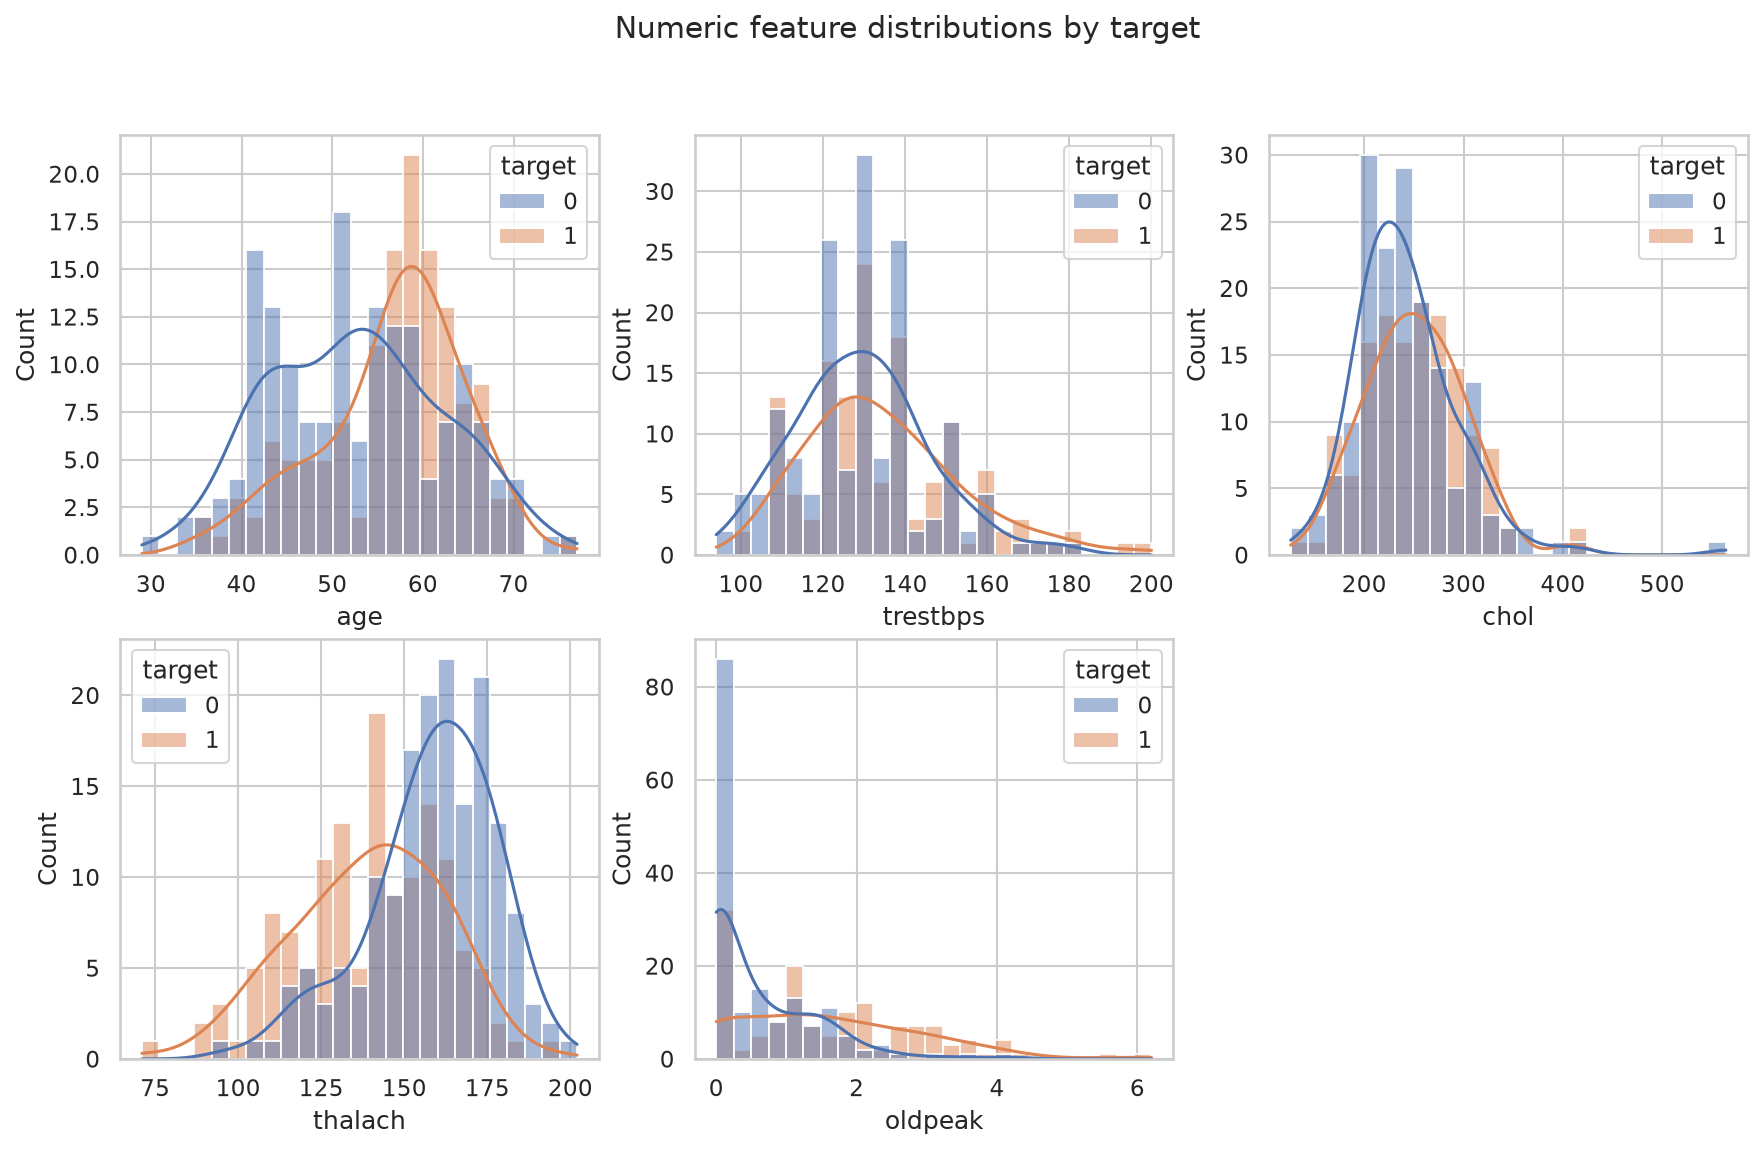
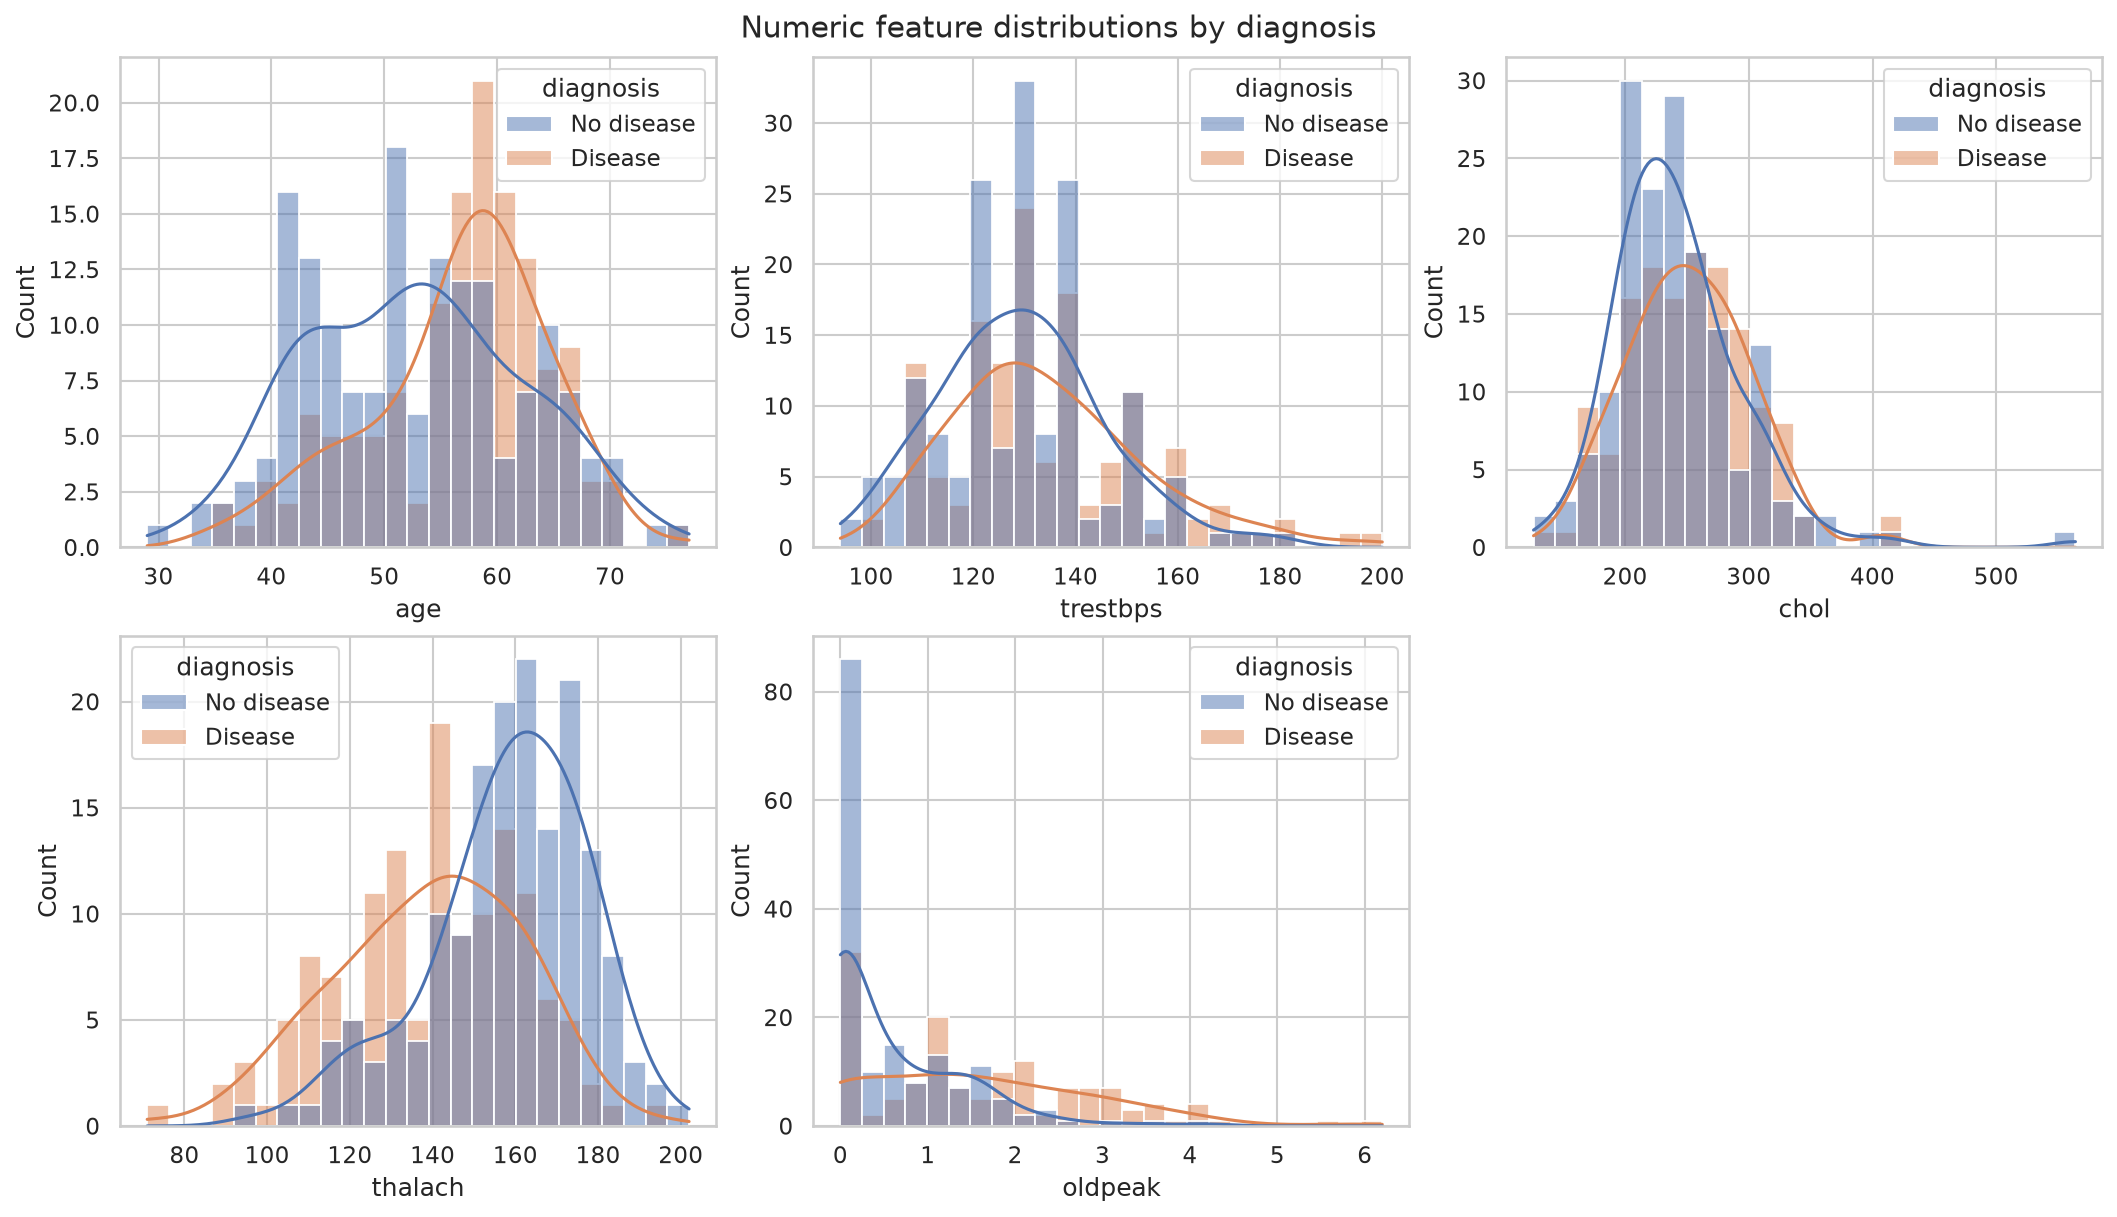
feat: improved EDA with rate plots and mutual information

diff --git a/src/eda.py b/src/eda.py
@@ -4,12 +4,16 @@ from pathlib import Path
 import matplotlib
 matplotlib.use("Agg")
 import matplotlib.pyplot as plt
+import numpy as np
 import pandas as pd
 import seaborn as sns
+from sklearn.feature_selection import mutual_info_classif
 
 from src.preprocess import CATEGORICAL, CLEAN_PATH, NUMERIC, TARGET
 
 OUT = Path("reports/eda")
+ORDER = ["No disease", "Disease"]
+PALETTE = {"No disease": "#4C72B0", "Disease": "#DD8452"}
 sns.set_theme(style="whitegrid", context="notebook")
 
 
@@ -20,51 +24,93 @@ def save(fig, name: str) -> None:
     print("saved", OUT / name)
 
 
+def cat_frame(df: pd.DataFrame, col: str) -> pd.DataFrame:
+    d = df.dropna(subset=[col]).copy()
+    d[col] = d[col].astype(int)
+    return d
+
+
 def main() -> None:
     df = pd.read_csv(CLEAN_PATH)
+    df["diagnosis"] = df[TARGET].map({0: ORDER[0], 1: ORDER[1]})
 
-    # 1. Class balance
+    # 1. Class balance with percentages
+    counts = df["diagnosis"].value_counts().reindex(ORDER)
     fig, ax = plt.subplots(figsize=(5, 4))
-    sns.countplot(data=df, x=TARGET, ax=ax, hue=TARGET, legend=False)
-    for p in ax.patches:
-        ax.annotate(int(p.get_height()), (p.get_x() + p.get_width() / 2, p.get_height()),
-                    ha="center", va="bottom")
-    ax.set_xticks([0, 1], ["No disease", "Disease"])
+    ax.bar(ORDER, counts.values, color=[PALETTE[o] for o in ORDER])
+    for i, v in enumerate(counts.values):
+        ax.text(i, v + 2, f"{v} ({v / len(df):.1%})", ha="center")
+    ax.set_ylabel("Patients")
     ax.set_title("Class balance")
     save(fig, "01_class_balance.png")
 
-    # 2. Numeric histograms (split by target)
-    fig, axes = plt.subplots(2, 3, figsize=(14, 8))
+    # 2. Numeric histograms by diagnosis
+    fig, axes = plt.subplots(2, 3, figsize=(14, 8), constrained_layout=True)
     for ax, col in zip(axes.ravel(), NUMERIC):
-        sns.histplot(data=df, x=col, hue=TARGET, kde=True, bins=25, ax=ax)
+        sns.histplot(data=df, x=col, hue="diagnosis", hue_order=ORDER,
+                     palette=PALETTE, kde=True, bins=25, ax=ax)
     axes.ravel()[-1].axis("off")
-    fig.suptitle("Numeric feature distributions by target")
+    fig.suptitle("Numeric feature distributions by diagnosis")
     save(fig, "02_numeric_histograms.png")
 
-    # 3. Boxplots
-    fig, axes = plt.subplots(1, 5, figsize=(18, 4))
+    # 3. Boxplots (wider figure, no label overlap)
+    fig, axes = plt.subplots(1, 5, figsize=(20, 4), constrained_layout=True)
     for ax, col in zip(axes, NUMERIC):
-        sns.boxplot(data=df, x=TARGET, y=col, ax=ax, hue=TARGET, legend=False)
-    fig.suptitle("Numeric features vs target")
+        sns.boxplot(data=df, x="diagnosis", y=col, order=ORDER, hue="diagnosis",
+                    hue_order=ORDER, palette=PALETTE, legend=False, ax=ax)
+        ax.set_xlabel("")
+    fig.suptitle("Numeric features by diagnosis")
     save(fig, "03_boxplots.png")
 
-    # 4. Categorical counts by target
-    fig, axes = plt.subplots(2, 4, figsize=(18, 8))
+    # 4. Categorical counts by diagnosis
+    fig, axes = plt.subplots(2, 4, figsize=(18, 8), constrained_layout=True)
     for ax, col in zip(axes.ravel(), CATEGORICAL):
-        sns.countplot(data=df, x=col, hue=TARGET, ax=ax)
-    fig.suptitle("Categorical features by target")
+        sns.countplot(data=cat_frame(df, col), x=col, hue="diagnosis",
+                      hue_order=ORDER, palette=PALETTE, ax=ax)
+    fig.suptitle("Categorical features by diagnosis (counts)")
     save(fig, "04_categorical_counts.png")
 
-    # 5. Correlation heatmap
-    fig, ax = plt.subplots(figsize=(10, 8))
-    sns.heatmap(df.corr(), annot=True, fmt=".2f", cmap="coolwarm", center=0, ax=ax)
-    ax.set_title("Correlation heatmap")
-    save(fig, "05_correlation_heatmap.png")
+    # 5. Disease rate per category, with group sizes
+    fig, axes = plt.subplots(2, 4, figsize=(18, 8), constrained_layout=True)
+    for ax, col in zip(axes.ravel(), CATEGORICAL):
+        g = cat_frame(df, col).groupby(col)[TARGET].agg(["mean", "size"]).reset_index()
+        sns.barplot(data=g, x=col, y="mean", color="#DD8452", ax=ax)
+        for i, r in g.iterrows():
+            ax.text(i, r["mean"] + 0.02, f"n={int(r['size'])}", ha="center", fontsize=9)
+        ax.set_ylim(0, 1.1)
+        ax.set_ylabel("Disease rate")
+    fig.suptitle("Disease rate by category (n = group size)")
+    save(fig, "05_disease_rate_by_category.png")
 
-    # Summary stats for the report
-    summary = df.describe().T.round(2)
+    # 6. Correlation heatmap (lower triangle). Pearson on nominal codes is indicative only.
+    corr = df[NUMERIC + CATEGORICAL + [TARGET]].corr()
+    mask = np.triu(np.ones_like(corr, dtype=bool), k=1)
+    fig, ax = plt.subplots(figsize=(10, 8))
+    sns.heatmap(corr, mask=mask, annot=True, fmt=".2f", cmap="coolwarm", center=0, ax=ax)
+    ax.set_title("Correlation heatmap (Pearson; nominal codes indicative only)")
+    save(fig, "06_correlation_heatmap.png")
+
+    # 7. Mutual information with target (valid for categorical features)
+    X = df[NUMERIC + CATEGORICAL].copy()
+    X = X.fillna(X.median())
+    discrete = [c in CATEGORICAL for c in X.columns]
+    mi = pd.Series(
+        mutual_info_classif(X, df[TARGET], discrete_features=discrete, random_state=42),
+        index=X.columns,
+    ).sort_values()
+    fig, ax = plt.subplots(figsize=(7, 6))
+    mi.plot.barh(ax=ax, color="#4C72B0")
+    ax.set_xlabel("Mutual information")
+    ax.set_title("Feature relevance to target")
+    save(fig, "07_mutual_information.png")
+    mi.sort_values(ascending=False).round(3).to_csv(OUT / "mutual_information.csv", header=["mi"])
+
+    # Summary stats
+    summary = df[NUMERIC + CATEGORICAL + [TARGET]].describe().T.round(2)
+    summary.index.name = "feature"
     summary.to_csv(OUT / "summary_stats.csv")
     print(summary)
+    print("\nMutual information (desc):\n", mi.sort_values(ascending=False).round(3))
 
 
 if __name__ == "__main__":
